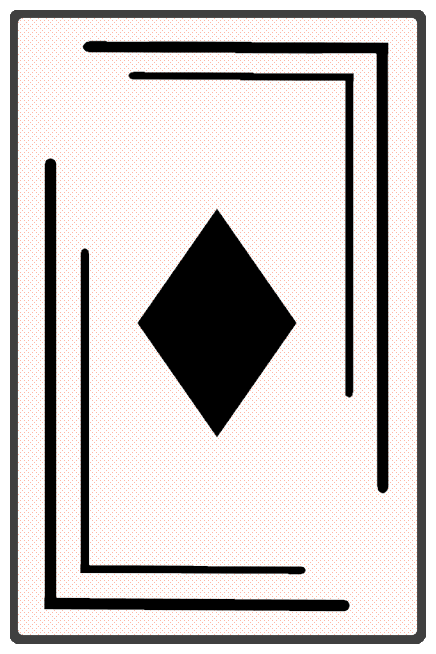
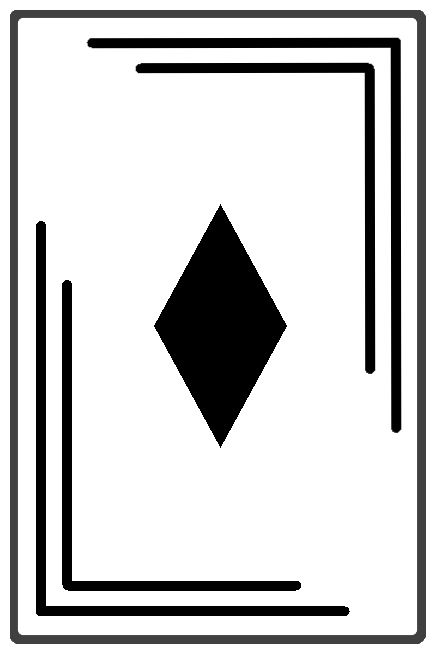
Add new card backsite

Changed region(s): [[0.0596, 0.0306, 0.9243, 0.948]]

diff --git a/client/src/components/Gaigel/GaigelCard.tsx b/client/src/components/Gaigel/GaigelCard.tsx
@@ -74,7 +74,7 @@ const GaigelCard: React.FC<Props> = ({ type, value, clickable, playCard, hidden 
             >
                 {hidden && value !== "" ? (
                     <img
-                        src={"/cardBacksite_noSpaceAround.png"}
+                        src={"/cardBacksite_noSpaceAround_n1.png"}
                         width={"40"}
                         height={"60"}
                         alt=""

diff --git a/client/src/components/Gaigel/Talon.tsx b/client/src/components/Gaigel/Talon.tsx
@@ -49,7 +49,7 @@ const Talon: React.FC<Props> = ({ cardsLeft, drawCard }) => {
                     }}
                 >
                     <img
-                        src={"/cardBacksite_noSpaceAround.png"}
+                        src={"/cardBacksite_noSpaceAround_n1.png"}
                         width={"40"}
                         height={"60"}
                         alt=""
